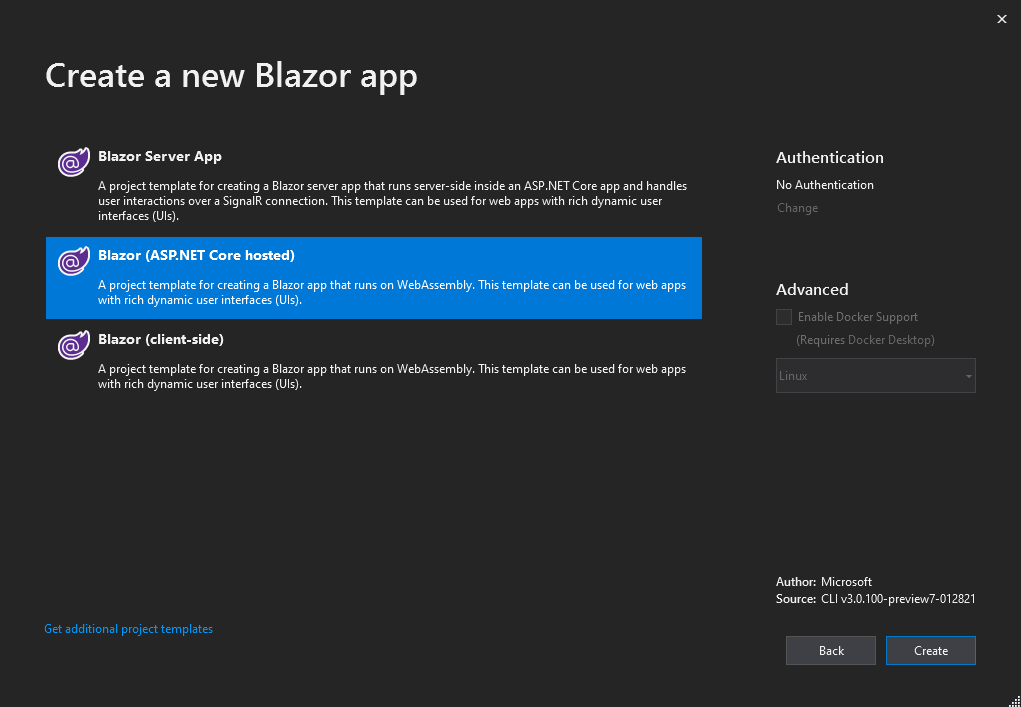
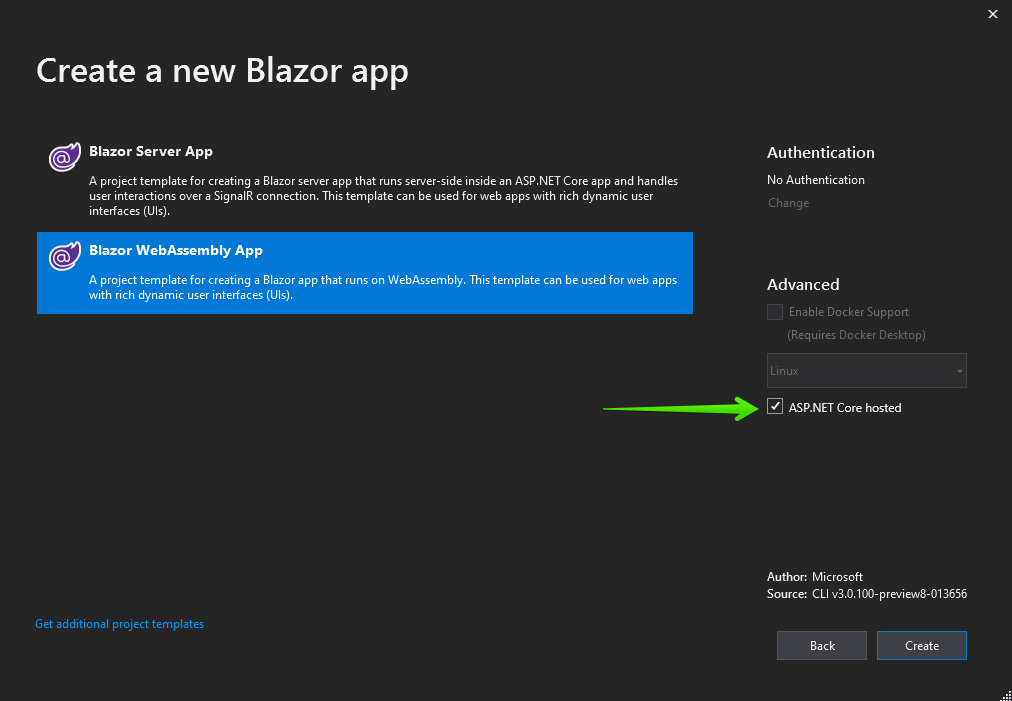
docs(common): fix preview 8 client template instructions

diff --git a/getting-started/client-blazor.md b/getting-started/client-blazor.md
@@ -29,7 +29,7 @@ This article explains how to get the Telerik UI for Blazor components in your **
 For client-side `Blazor App`, we recommend the usage of `Blazor (ASP.NET Hosted)` project. 
 @[template](/_contentTemplates/common/get-started.md#project-creation-part-1)
 
-1. Choose the `Blazor (ASP.NET Hosted)` project type and click `Create`.
+1. Choose the `Blazor WebAssembly App` project type, select the `ASP.NET Core hosted` checkbox, and click `Create`.
 
     ![Select Blazor Project Type](images/choose-project-template.png)
 
